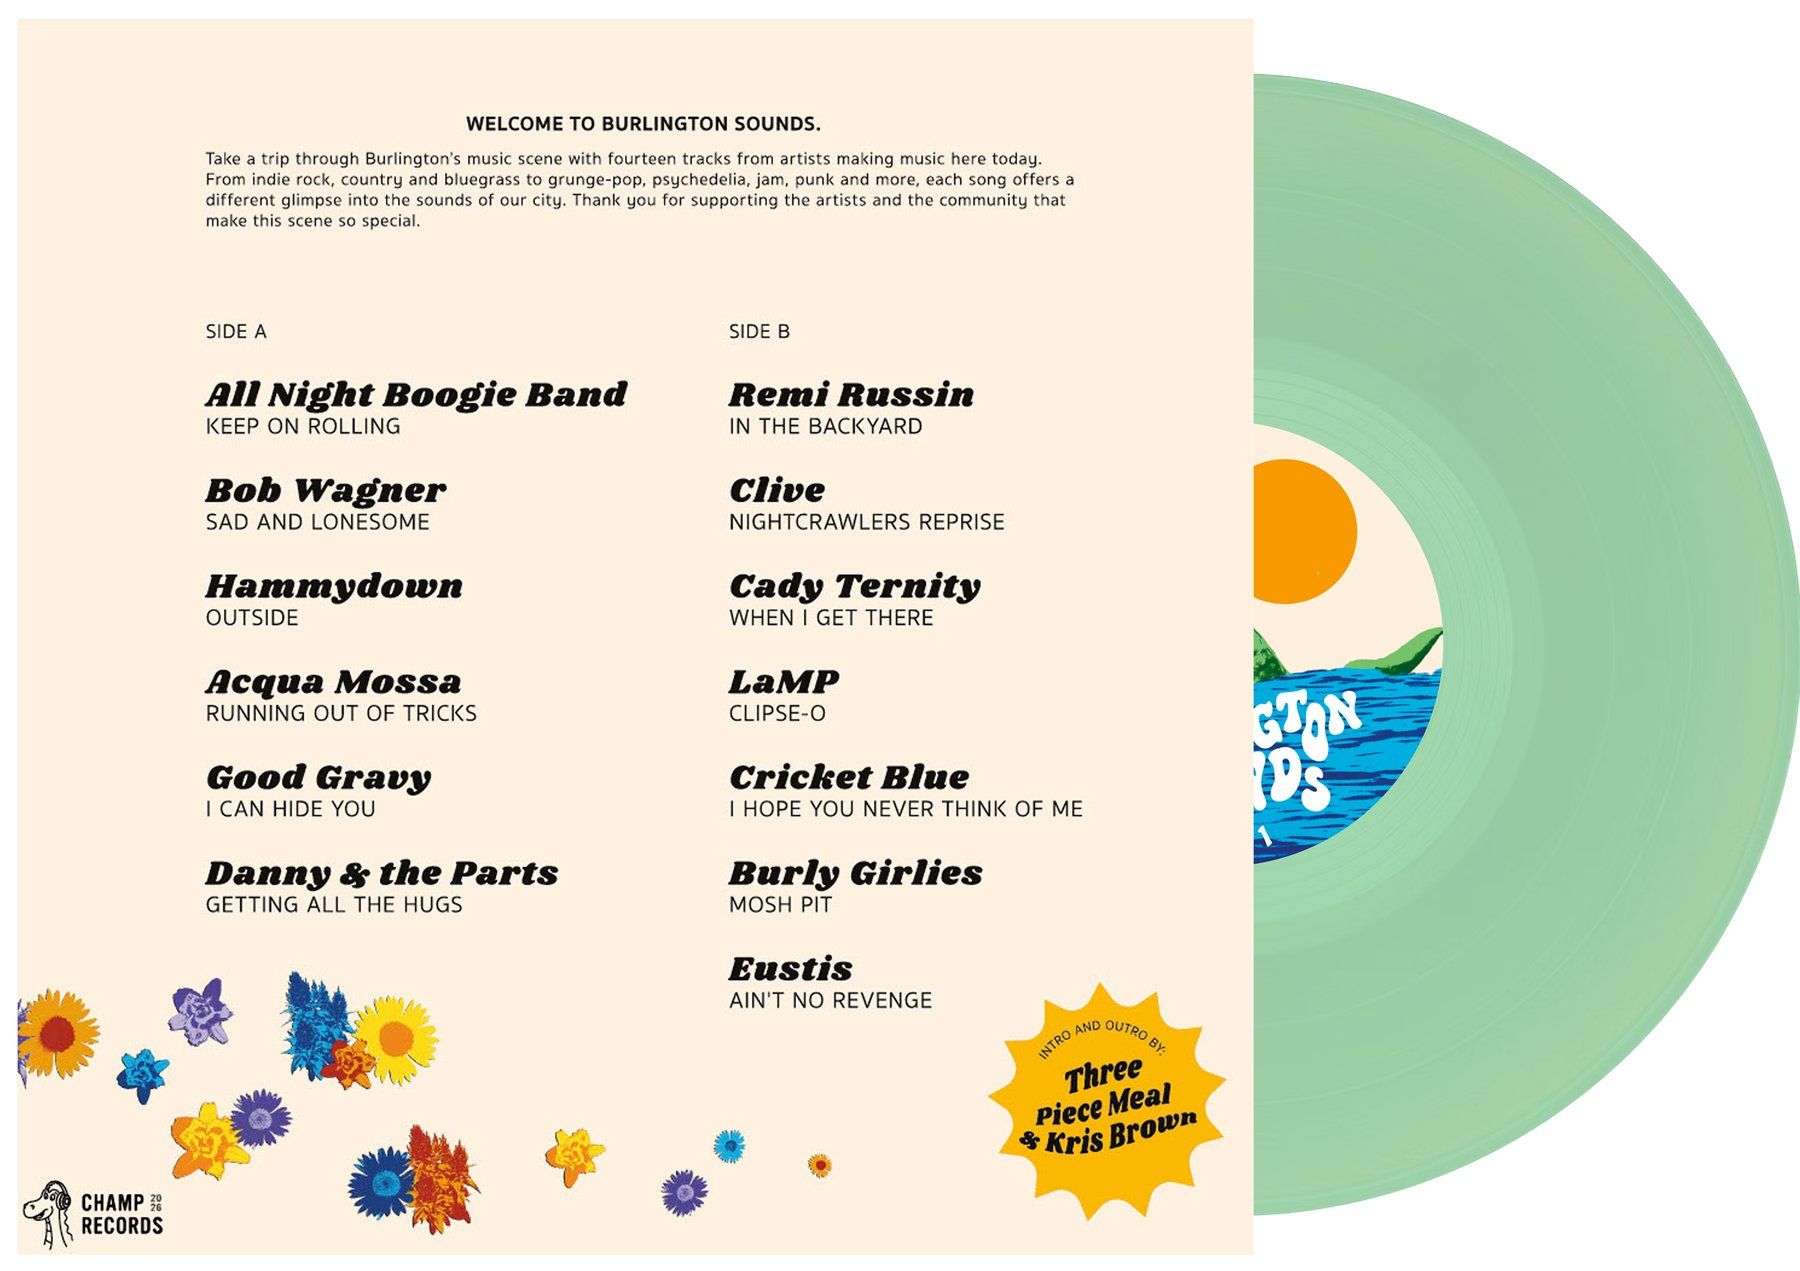
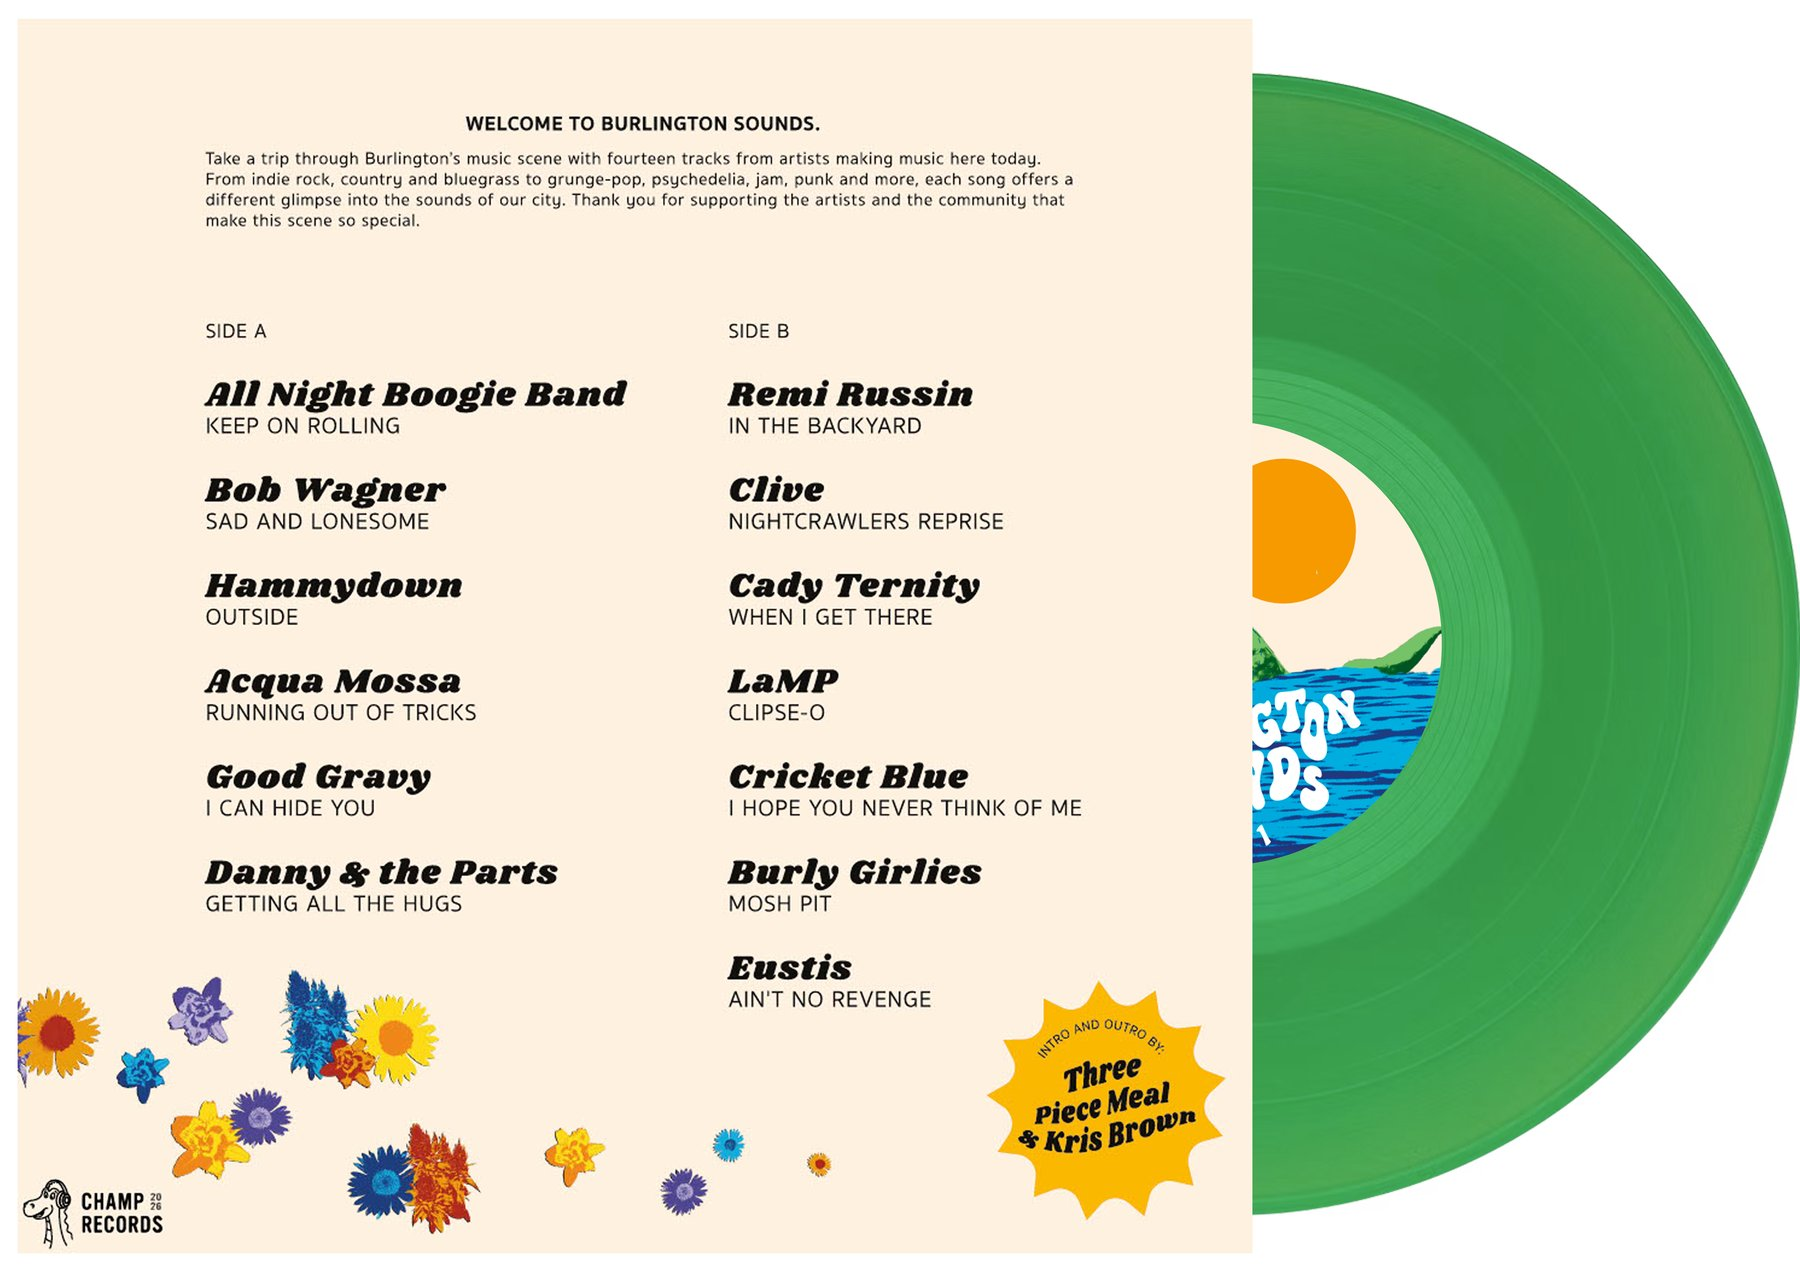
Dark green vinyl on both sides; "fourteen bands" in hero
- Front and back of the record flip now come from matching dark green
  mockups, composited with their original transparency
- Hero copy: "Discover fourteen bands from Burlington's..."

diff --git a/index.html b/index.html
@@ -118,7 +118,7 @@
         </h1>
 
         <p class="hero-tagline">
-          Discover fourteen artists from Burlington's thriving music scene,
+          Discover fourteen bands from Burlington's thriving music scene,
           all on one vinyl&nbsp;record.
         </p>
 
